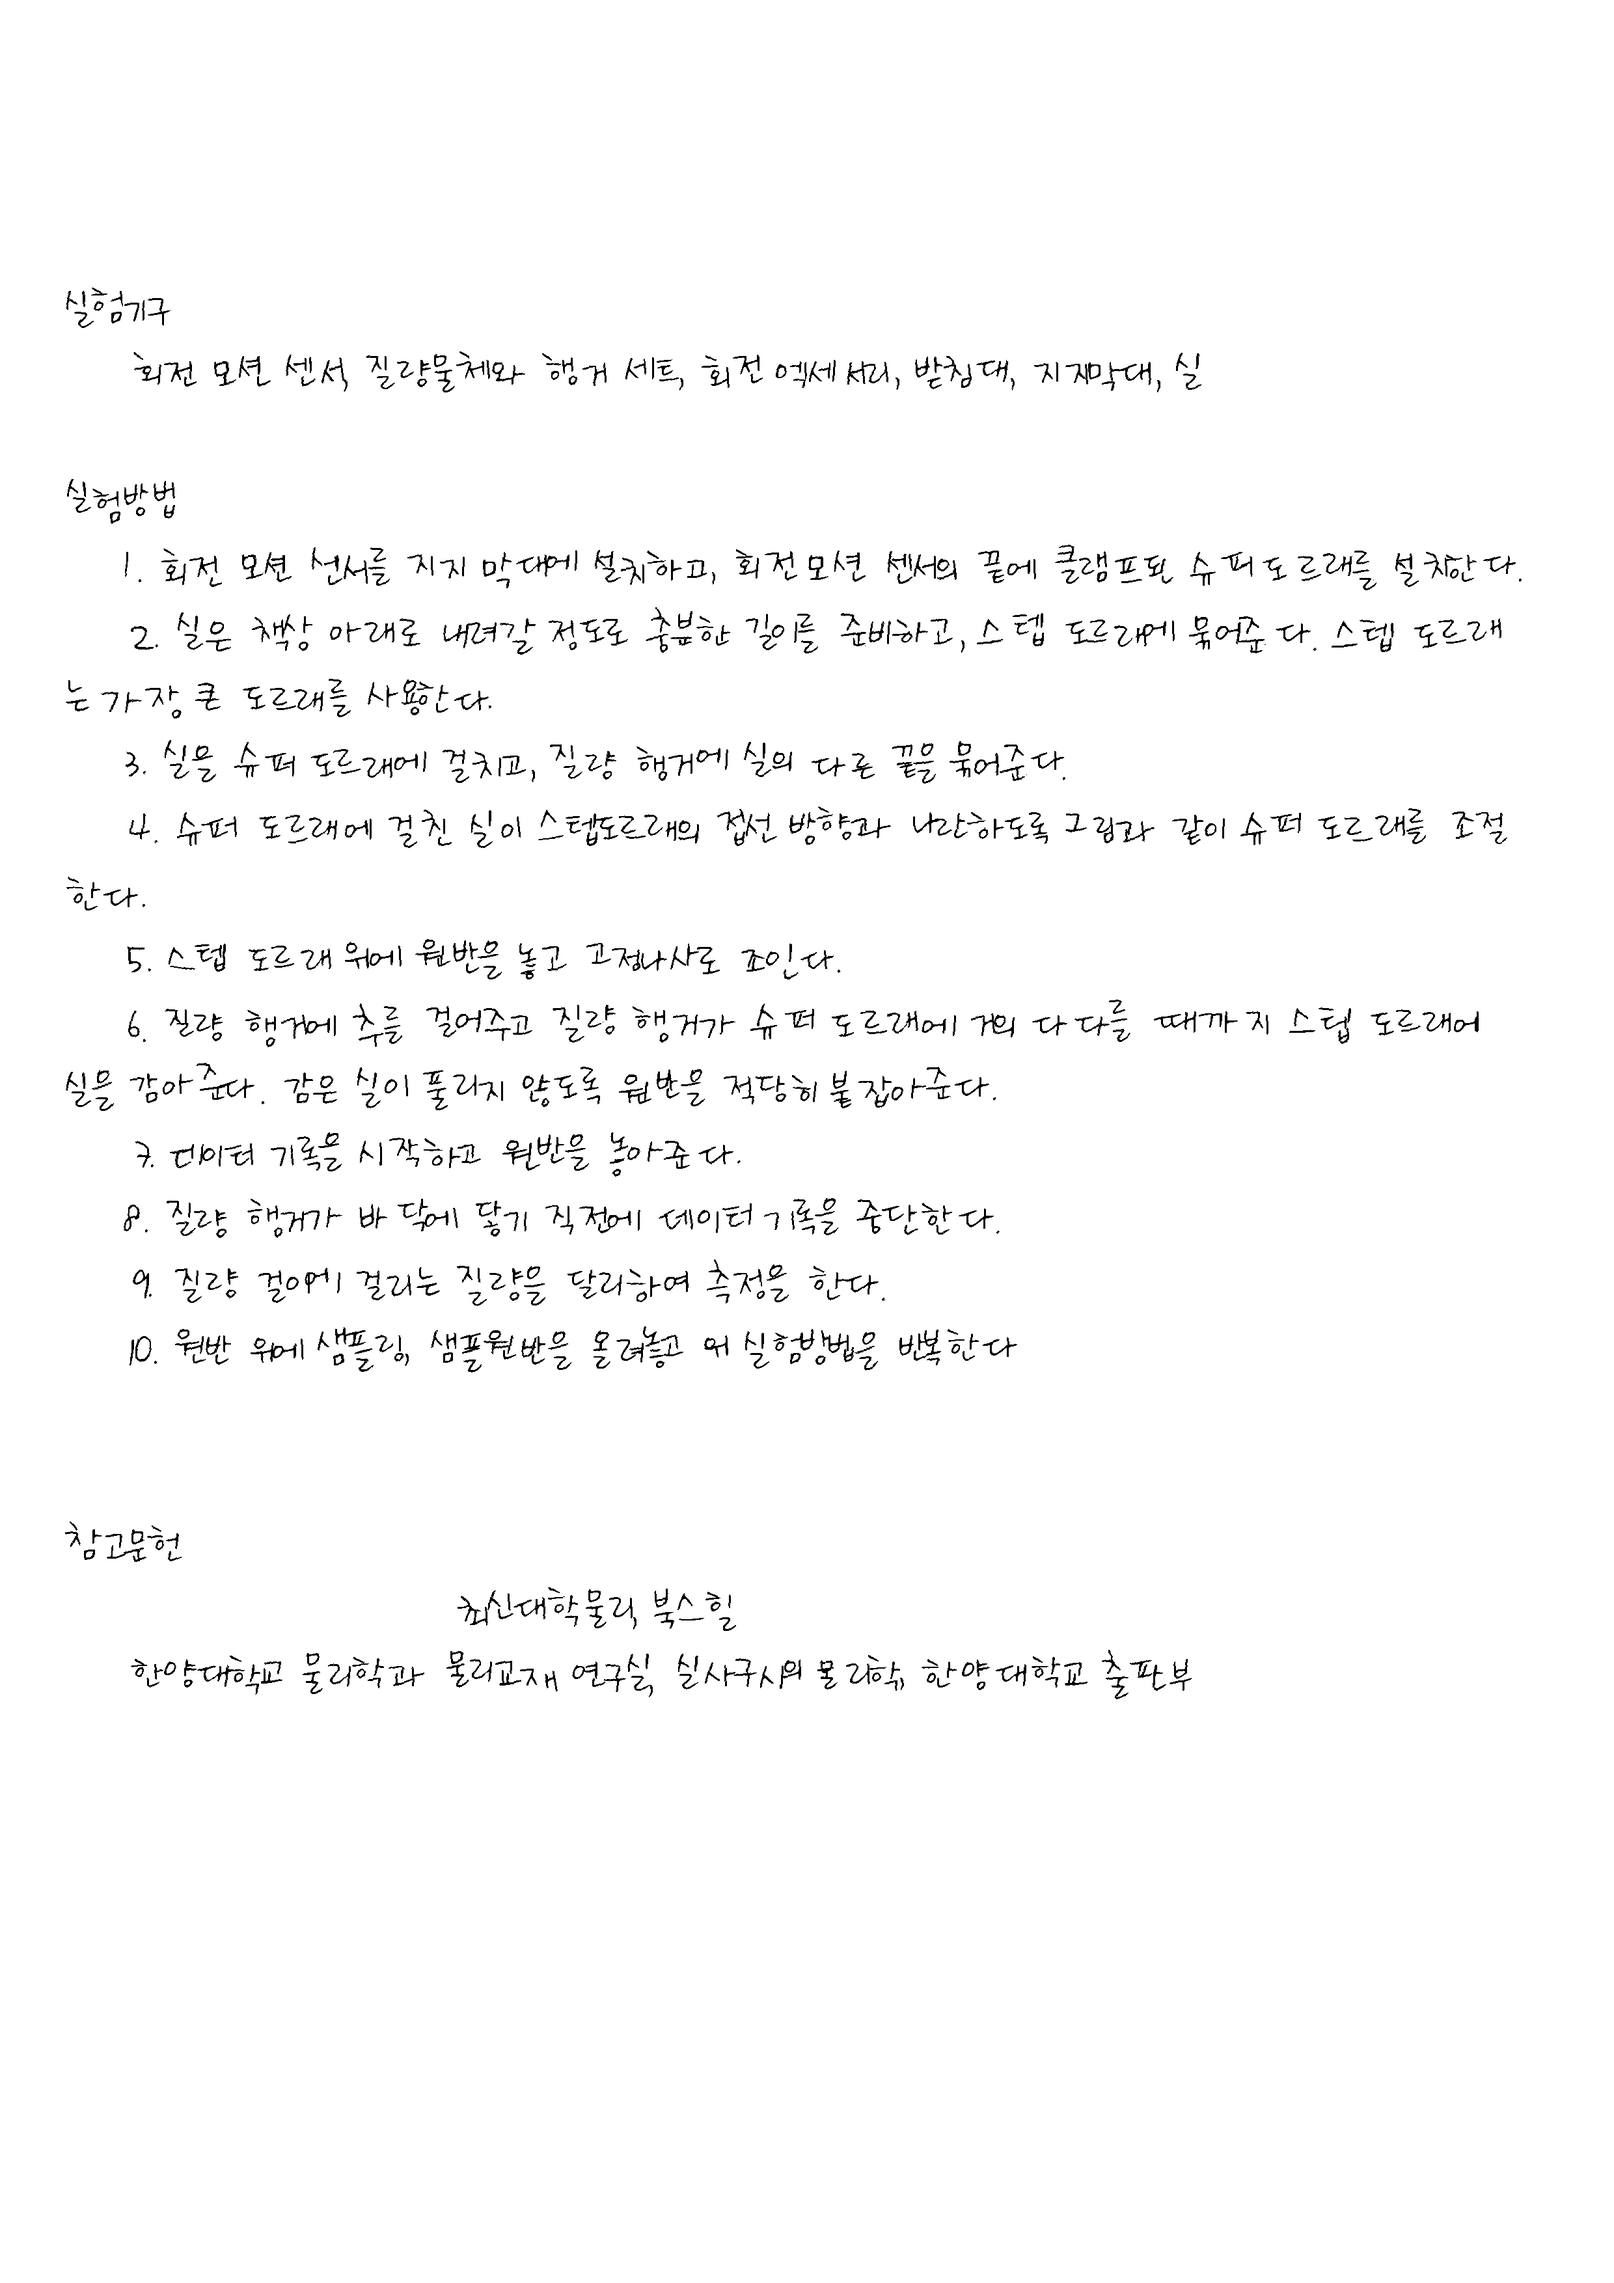
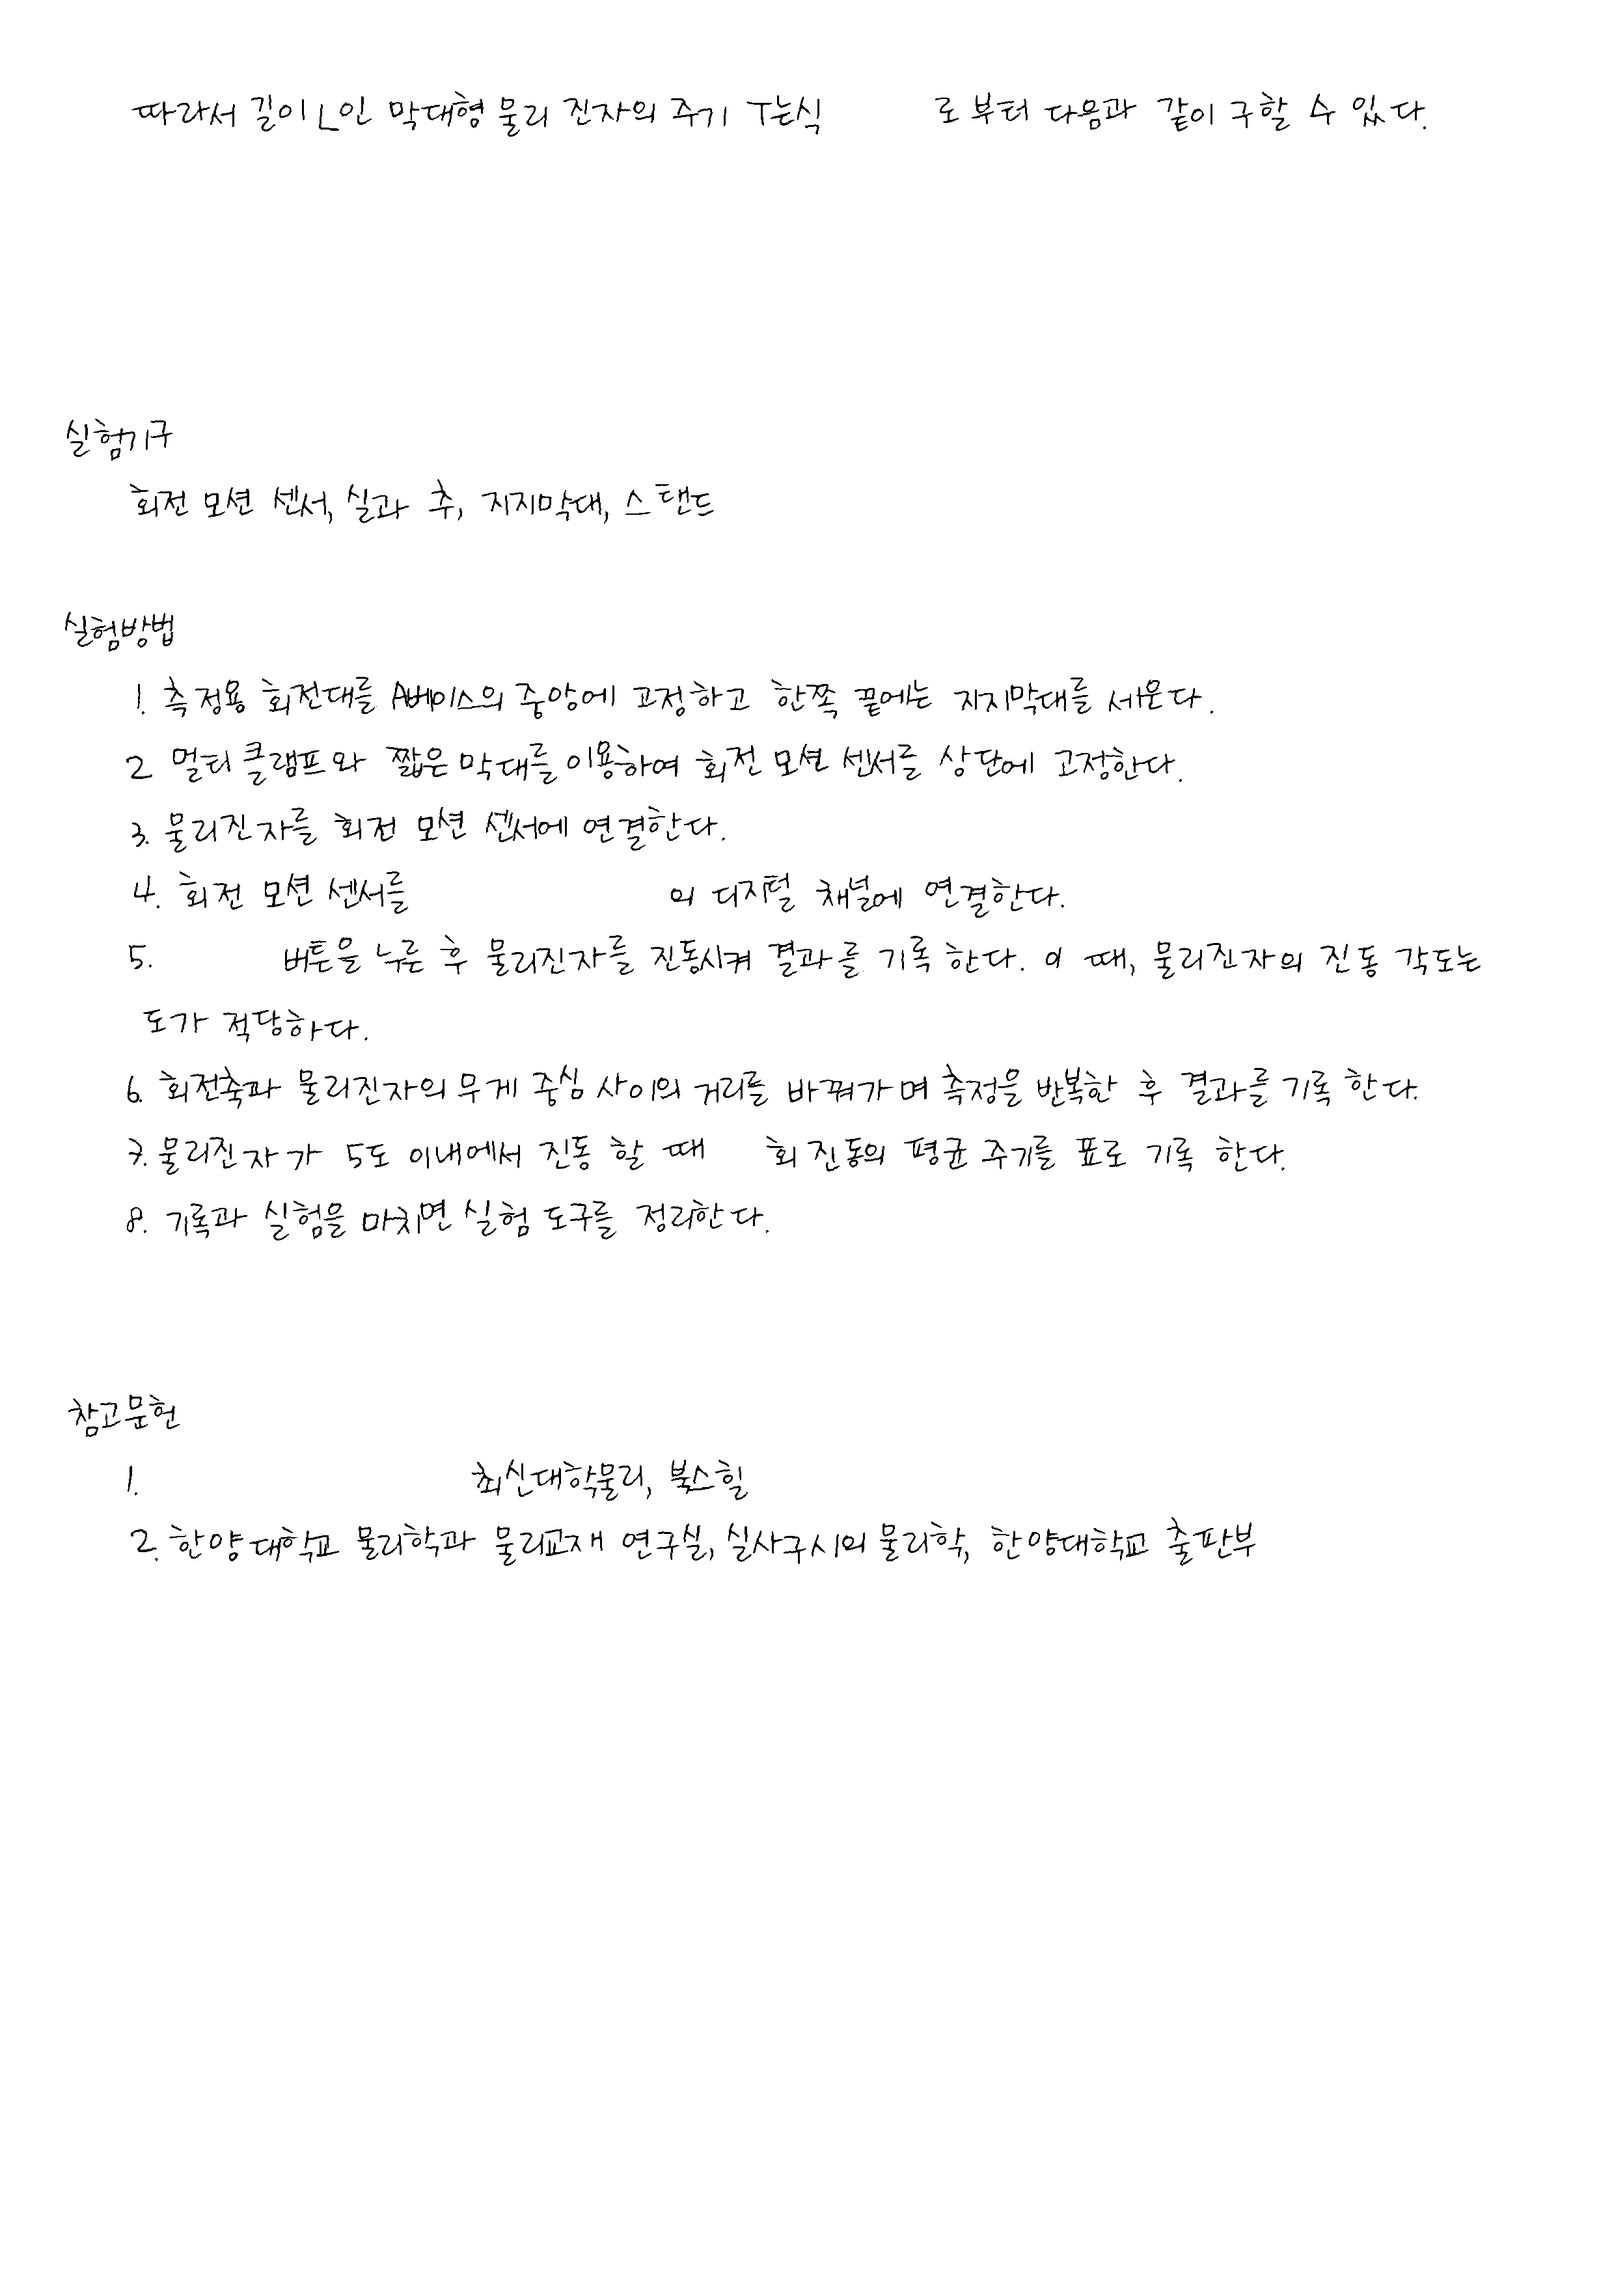
add experiment 8

diff --git a/hard_writing_test.py b/hard_writing_test.py
@@ -7,57 +7,49 @@ from handright import Template, handwrite
 text = """
 
 실험제목
-    관성모멘트 측정
+    물리진자
 
 실험 목적
-    에너지 보존법칙을 이용하여 원반과 링, 막대, 질점의 관성모멘트를 결정한다.
+    회전 운동과 연관되어 주기 운동을 하는 물체의 운동을 관찰하고 진동 주기를 측정하여 중력가속도 g를 구해본다.
 
 실험이론
-    n개의 질점으로 구성된 강체가 고정 축 주위를 각속력   로 회전하면, 총 운동에너지 K는
+    실제의 진자는 단진자와는 달리 복잡한 질량분포를 갖게 되는 데이를 물리진자라고 부른다. 한쪽으로 각도  만큼 기울어져 있는 물리진자의 모습이다.
 
 
-    이다. 여기서 I는
 
 
-    로 관성모멘트이고,  는 회전축으로부터의 거리다. 연속적인 질량 분포의 경우의 관성모멘트는
 
 
-    장치에서 질량 M인 추가 정지상태로부터 시간 t동안에 h만큼 떨어지면서 원판을 회전시키면 에너지 보존 법칙에 의해
 
 
-    v는 추가 h만큼 내려왔을 때의 속력으로서 추는 등가속도운동을 하므로
+    중력   는 매단 점 O에서 거리 h만큼 떨어진 질량중심  에 작용한다. 모양은 서로 다르지만 단진자와 물리진자 간의 큰 차이점은 한 가지뿐이다. 물리진자의 경우 복원력        에 대한 모멘트팔은 단진자처럼 실의길이 L이 아니라 매단점에서 질량중심까지의 거리 h라는 점이다. 다른 모든점에 있어서는 단진자의 운동을 분석한 것과 같은 방법을 이용하면 된다. 따라서 물리진자의 경우에도 각 진폭   이 작을 경우 어림잡아 단순조화운동으로 다룰 수 있다. 이 때, 물리진자의 주기 T는 다음과 같다.
 
 
-    이고, a는 가속도의 크기, 속력은
+    사각판형 강체의 질량 중심에 대한 관성 모멘트는                    이다. 이 때,              인 경우에는 근사적으로                  가 된다. 그런데 모든 물체는 질량 중심이 아닌 임의의 축을 중심으로 회전시킬 수 있기 때문에 무수히 많은 관성 모멘트를 가질 수 있다.  질량 M인 물체가 임의의 축을 중심으로 회전 할 때 관성 모멘트 I 은 평행축 정리를 이용하여 다음과 같이 나타날 수 있다.
 
 
-    이고,  는 회전축의 각속력으로서
+    따라서 길이 L인 막대형 물리 진자의 주기 T는식       로 부터 다음과 같이 구할 수 있다.
 
-
-    이다. 여기서 R은 회전축의 반지름이다.
-    식            에 대입하면 회전체의 관성모멘트 I는 다음과 같이 된다.
 
 
 
 실험기구
-    회전 모션 센서, 질량물체와 행거 세트, 회전 엑세서리, 받침대, 지지막대, 실
+    회전 모션 센서, 실과 추, 지지막대, 스탠드
 
 실험방법
-    1. 회전 모션 센서를 지지 막대에 설치하고, 회전 모션 센서의 끝에 클램프된 슈퍼 도르래를 설치한다.
-    2. 실은 책상 아래로 내려갈 정도로 충분한 길이를 준비하고, 스텝 도르래에 묶어준다. 스텝 도르래는 가장 큰 도르래를 사용한다.
-    3. 실을 슈퍼 도르래에 걸치고, 질량 행거에 실의 다른 끝을 묶어준다.
-    4. 슈퍼 도르래에 걸친 실이 스텝도르래의 접선 방향과 나란하도록 그림과 같이 슈퍼 도르래를 조절한다.
-    5. 스텝 도르래 위에 원반을 놓고 고정나사로 조인다.
-    6. 질량 행거에 추를 걸어주고 질량 행거가 슈퍼 도르래에 거의 다다를 때까지 스텝 도르래에 실을 감아준다. 감은 실이 풀리지 않도록 원반을 적당히 붙잡아준다.
-    7. 데이터 기록을 시작하고 원반을 놓아준다.
-    8. 질량 행거가 바닥에 닿기 직전에 데이터 기록을 중단한다.
-    9. 질량 걸이에 걸리는 질량을 달리하여 측정을 한다.
-    10. 원반 위에 샘플링, 샘플원반을 올려놓고 위 실험방법을 반복한다
+    1. 측정용 회전대를 A베이스의 중앙에 고정하고 한쪽 끝에는 지지막대를 세운다.
+    2. 멀티 클램프와 짧은 막대를 이용하여 회전 모션 센서를 상단에 고정한다.
+    3. 물리진자를 회전 모션 센서에 연결한다.
+    4. 회전 모션 센서를                 의 디지털 채널에 연결한다.
+    5.        버튼을 누른 후 물리진자를 진동시켜 결과를 기록 한다. 이 때, 물리진자의 진동 각도는      도가 적당하다.
+    6. 회전축과 물리진자의 무게 중심 사이의 거리를 바꿔가며 측정을 반복한 후 결과를 기록 한다.
+    7. 물리진자가 5도 이내에서 진동 할 때    회 진동의 평균 주기를 표로 기록 한다.
+    8. 기록과 실험을 마치면 실험 도구를 정리한다.
 
 
 참고문헌
-                         최신대학물리, 북스힐
-    한양대학교 물리학과 물리교재 연구실, 실사구시의 물리학, 한양대학교 출판부
+    1.                      최신대학물리, 북스힐
+    2. 한양대학교 물리학과 물리교재 연구실, 실사구시의 물리학, 한양대학교 출판부
 
 """
 template = Template(
